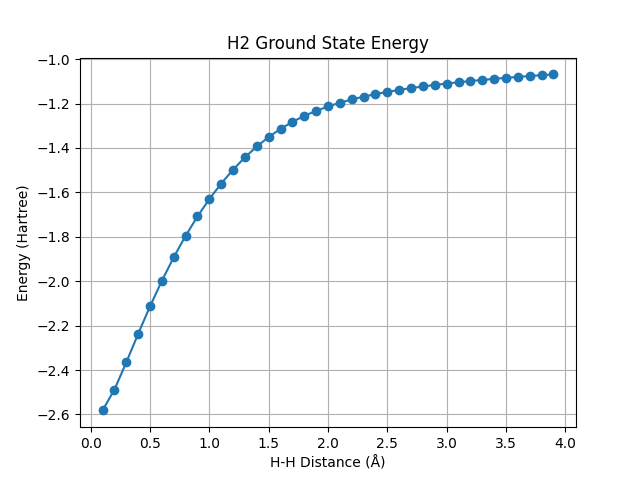
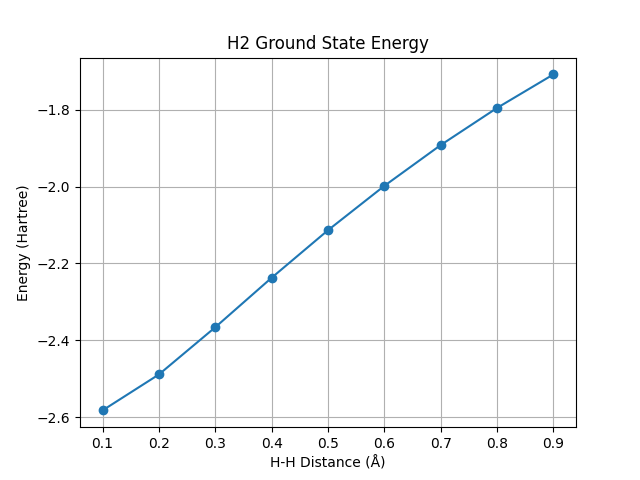
update

diff --git a/H2_ideal_vqe.py b/H2_ideal_vqe.py
@@ -1,5 +1,5 @@
 from qiskit_nature.units import DistanceUnit
-from qiskit_nature.second_q.drivers import PySCFDriver
+from qiskit_nature.second_q.drivers import PySCFDriver, Psi4Driver
 from qiskit_nature.second_q.mappers import JordanWignerMapper, QubitConverter
 from qiskit.algorithms.optimizers import SLSQP
 from qiskit.primitives import Estimator
@@ -15,56 +15,66 @@ import matplotlib
 import matplotlib.pyplot as plt
 
 # Define the H-H distances to sample
-distances = np.arange(0.1, 4.0, 0.1)
+distances = np.arange(0.1, 1.0, 0.1)
 molecule = 'H .0 .0 -{0}; H .0 .0 {0}'
+basisNames = ["sto3g", "ccpvdz", "augccpvdz"]
 
 # Initialize arrays to store distances and energies
 dissociation_curve = []
 
-# Loop over distances
-for distance in distances:
-    # Define molecule and driver
-    driver = PySCFDriver(
-        atom=molecule.format(distance/2),
-        basis="sto3g",
-        charge=0,
-        spin=0,
-        unit=DistanceUnit.ANGSTROM,
-    )
+# Loop over basis
+for basis in basisNames:
+    cur_curve = []
+    # Loop over distances
+    for distance in distances:
+        # Define molecule and driver
+        driver = PySCFDriver(
+            atom=molecule.format(distance/2),
+            basis=basis,
+            charge=0,
+            spin=0,
+            unit=DistanceUnit.ANGSTROM,
+        )
 
-    es_problem = driver.run()
+        es_problem = driver.run()
 
-    converter = QubitConverter(JordanWignerMapper())
+        converter = QubitConverter(JordanWignerMapper())
 
-    vqe_solver = VQEUCCFactory(Estimator(), UCCSD(), SLSQP())
+        vqe_solver = VQEUCCFactory(Estimator(), UCCSD(), SLSQP())
 
-    tl_circuit = TwoLocal(
-        rotation_blocks=["h", "rx"],
-        entanglement_blocks="cz",
-        entanglement="full",
-        reps=2,
-        parameter_prefix="y",
-    )
+        tl_circuit = TwoLocal(
+            rotation_blocks=["h", "rx"],
+            entanglement_blocks="cz",
+            entanglement="full",
+            reps=2,
+            parameter_prefix="y",
+        )
 
-    calc = GroundStateEigensolver(converter, vqe_solver)
-    result = calc.solve(es_problem)
-     # Calculate energy
-    energy = result.raw_result.optimal_value
-    dissociation_curve.append((distance, energy))
+        calc = GroundStateEigensolver(converter, vqe_solver)
+        result = calc.solve(es_problem)
+        # Calculate energy
+        energy = result.raw_result.optimal_value
+        cur_curve.append((distance, energy))
+    dissociation_curve.append(cur_curve)
 
 # Print the dissociation curve
 with open("report.txt", "w") as file:
-    print("Dissociation Curve (H-H distance vs. Energy)", file=file)
-    print("-------------------------------------------", file=file)
-    print("H-H Distance (Å)   Energy (Hartree)", file=file)
-    for distance, energy in dissociation_curve:
-        print(f"{distance:.2f}               {energy:.6f}", file=file)
+    i = 0
+    # Loop over basis
+    for basis in basisNames:    
+        print(f"Dissociation Curve of {basis} (H-H distance vs. Energy)", file=file)
+        print("-------------------------------------------", file=file)
+        print("H-H Distance (Å)   Energy (Hartree)", file=file)
+        for distance, energy in dissociation_curve[i]:
+            print(f"{distance:.2f}               {energy:.6f}", file=file)
+        i = i + 1
 
-
-x, y = zip(*dissociation_curve)
-plt.plot(x, y, marker='o')  # 'o' for circular markers
+for i in range(len(basisNames)):
+    x, y = zip(*dissociation_curve[i])
+    plt.plot(x, y, marker='o', label=basisNames[i])  # 'o' for circular markers
 plt.xlabel('H-H Distance (Å)')
 plt.ylabel('Energy (Hartree)')
 plt.title('H2 Ground State Energy')
+plt.legend(loc='upper right')
 plt.grid(True)
 plt.savefig('report.png')  # Save the plot to a file
